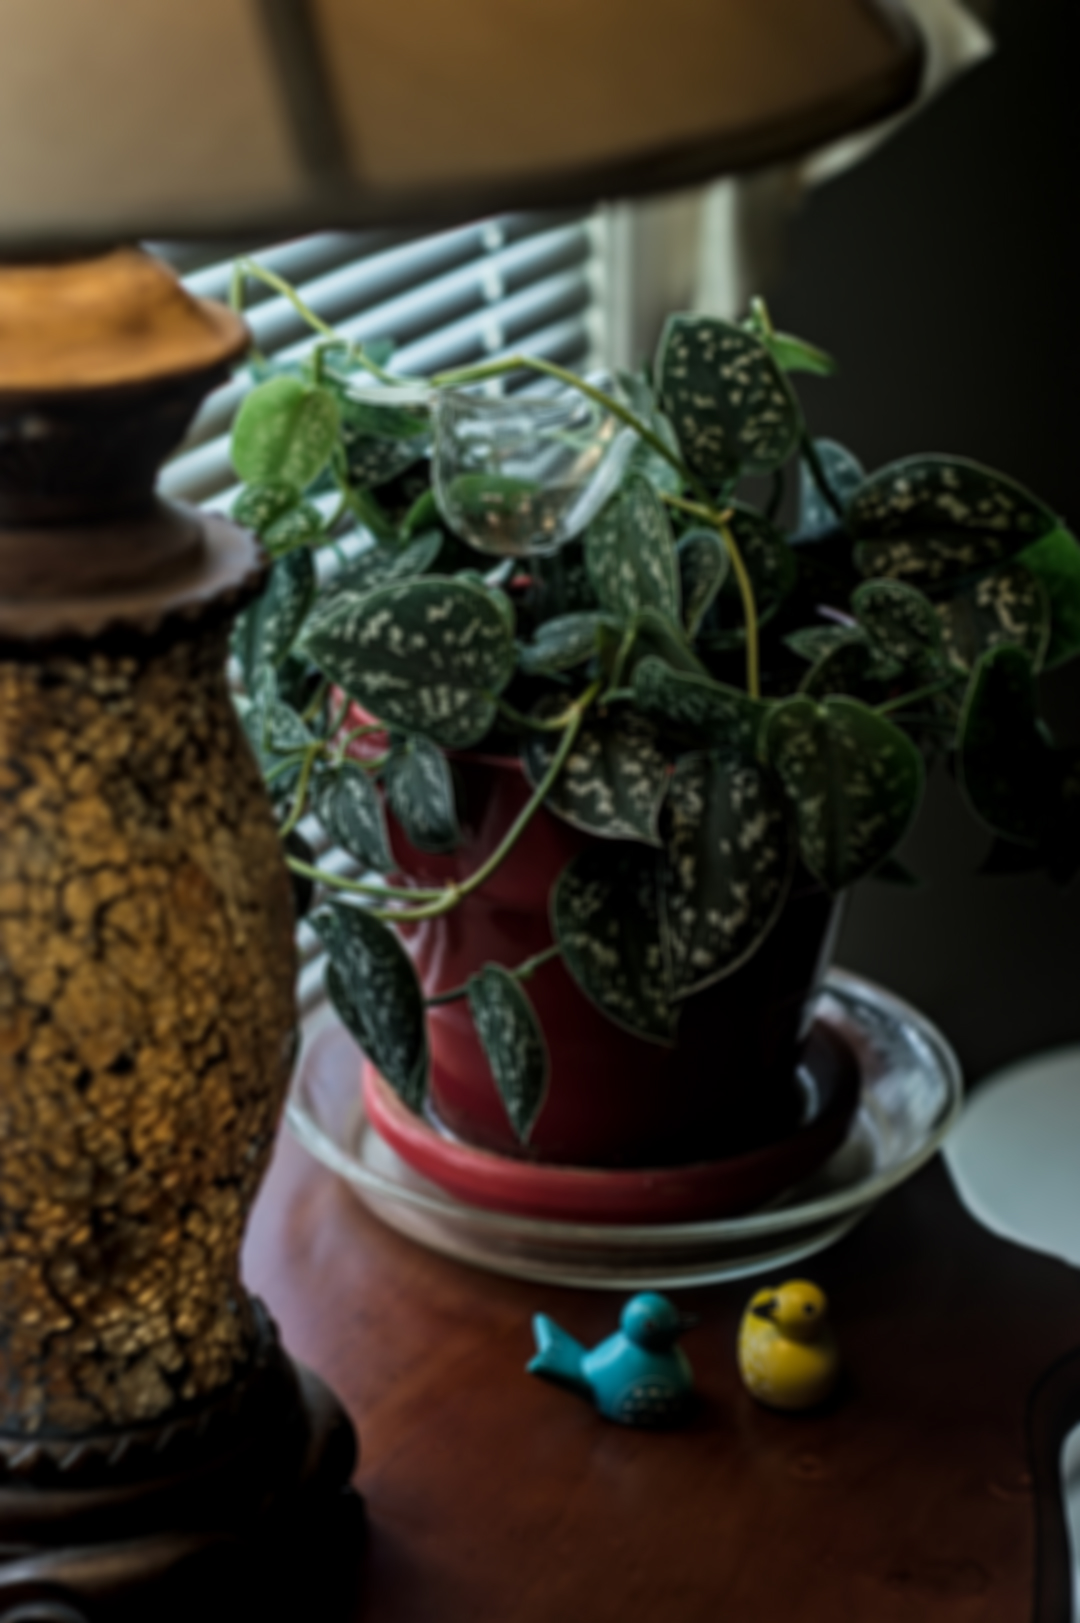
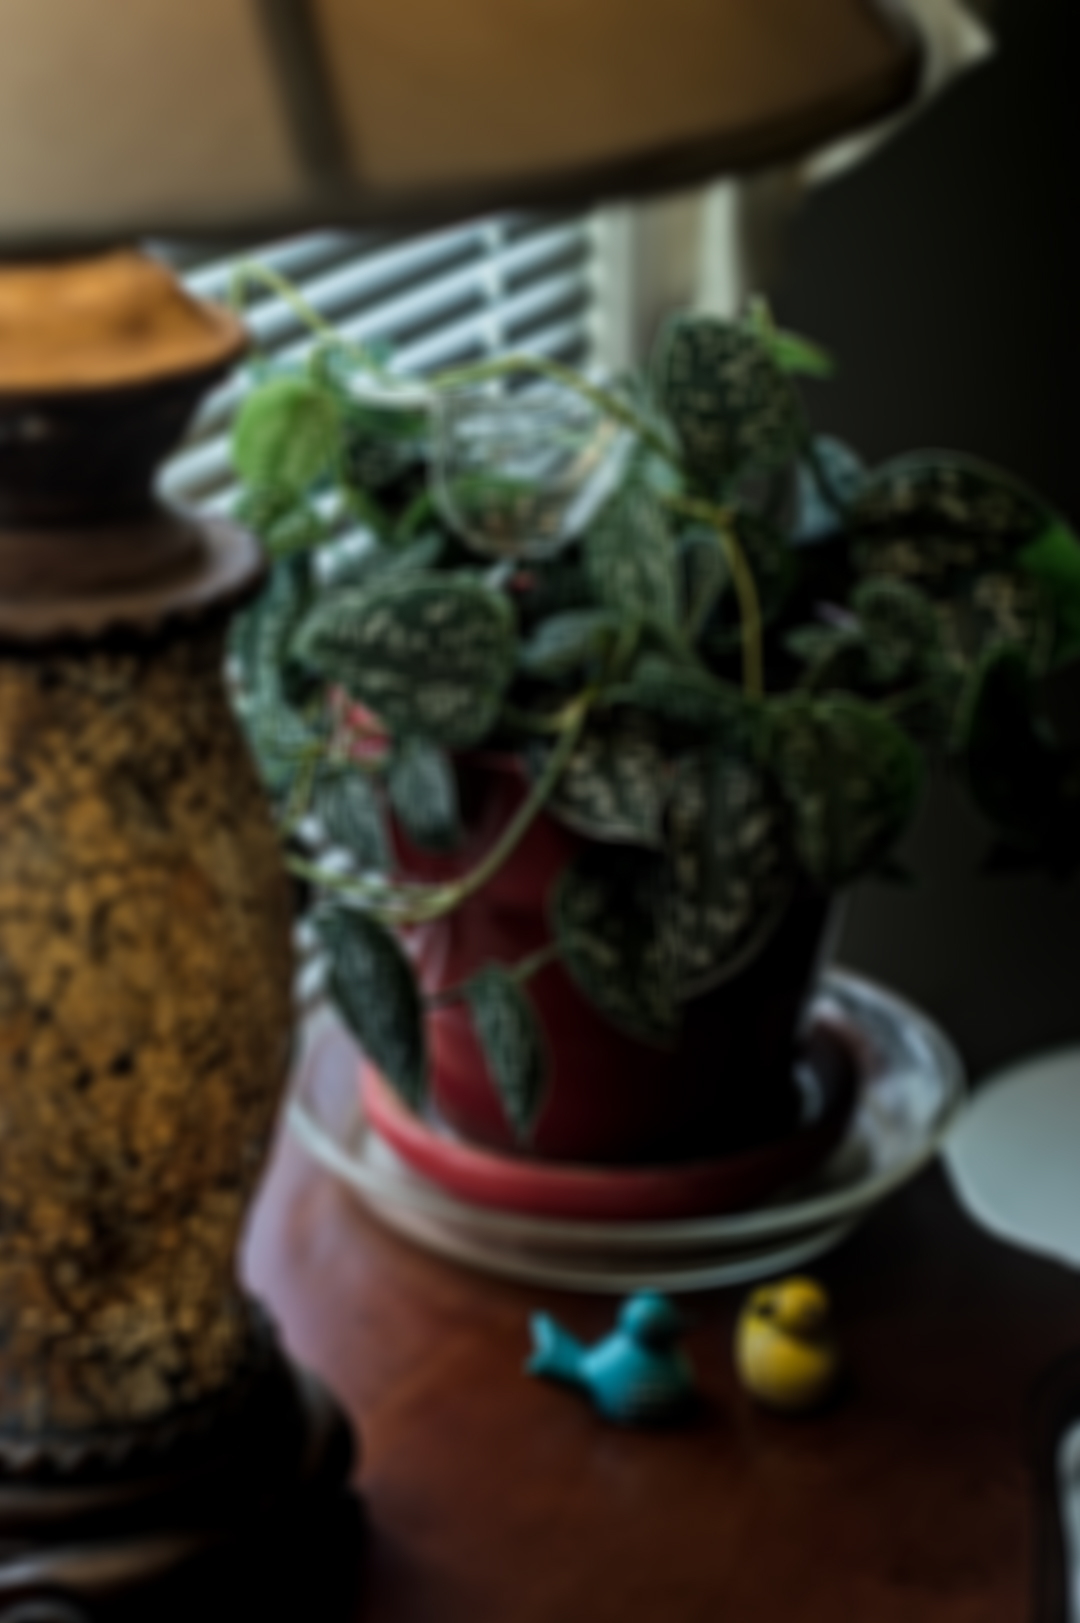
docs: increase blur strength for sample

diff --git a/README.md b/README.md
@@ -18,7 +18,7 @@ convolution.
 - [ ] Median
 - [ ] Motion
 
-## Blur Comparison
+## Blur Method Comparison (Strength: 20)
 
 | Blurring Method | Original Image | Blurred Image |
 |----------------|---------------|------------------|
